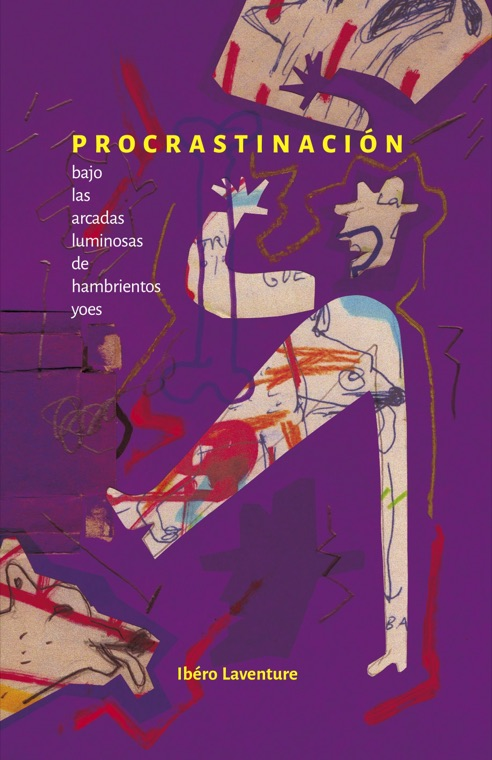
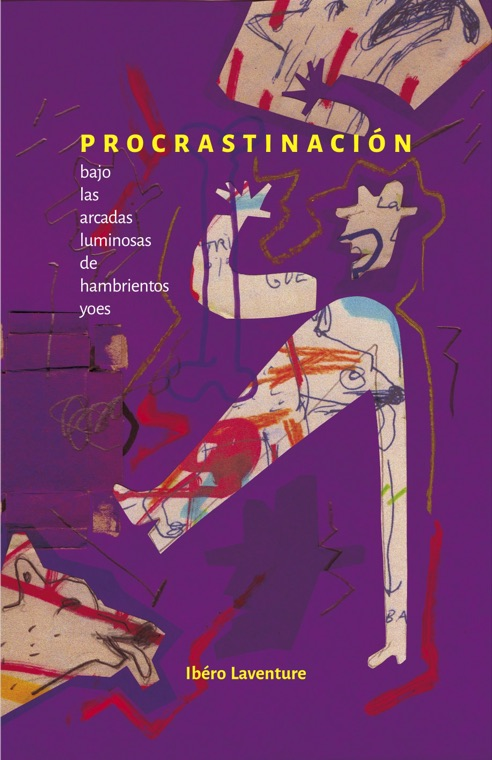
Add covers for materiales/2021-2023, 3 new books, fix duplicate poetas suecas entry
Matched 78 scanned covers to their books (73 existing + 3 new: Tiritantes de
la ciudad, Casi vacío, La caída), converting CMYK sources to sRGB and cropping
wraparound spreads down to the front-cover panel where needed. Removed
clu-de-yauguru--agosto-2021--encuentro-con-tres-poetas.md as a duplicate of
Un encuentro con tres poetas suecas. Catalog goes from 559 to 562 books.

diff --git a/PROJECT.md b/PROJECT.md
@@ -180,8 +180,8 @@ en `global.css`) simula el canto de páginas de un libro real.
 
 El editor va subiendo tapas escaneadas a `materiales/<algo con el año>/` (no
 trackeado en git, ver `.gitignore`) de a tandas — hasta ahora se procesaron los
-lotes con tapas de 2023-2026. Cuando aparezcan lotes nuevos (ej. `materiales/2021`,
-`materiales/2022`, `materiales/2023`), el flujo que ya se usó es:
+lotes con tapas de 2021-2026. Cuando aparezcan lotes nuevos, el flujo que ya se
+usó es:
 
 1. **Listar los archivos** de la carpeta nueva (`ls`) — los nombres son
    inconsistentes y crípticos (fragmentos de título, apellido del autor,
@@ -198,7 +198,30 @@ lotes con tapas de 2023-2026. Cuando aparezcan lotes nuevos (ej. `materiales/202
 3. **Optimizar cada imagen** con `sips` (viene instalado en macOS, no hace
    falta ninguna librería): `sips -Z 760 --setProperty formatOptions 78 "<origen>" --out "public/covers/<slug>.jpg"`
    — reduce de varios MB a ~80-150KB por tapa, suficiente para el tamaño real
-   en pantalla (grilla ~190px, modal ~380px).
+   en pantalla (grilla ~190px, modal ~380px). Detalles que salieron al procesar
+   los lotes 2021-2023 (fuentes en `.tif`/`.psd`/`.pdf`, no solo `.jpg`):
+   - Muchos originales (tanto `.tif`/`.psd` como varios `.jpg`) vienen en **CMYK**
+     de Photoshop/QuarkXPress. `sips` los deja tal cual si no se le pide
+     conversión — hay que agregar `-m "/System/Library/ColorSync/Profiles/sRGB Profile.icc"`
+     antes de `-s format jpeg` para forzar RGB real (si no, el jpg queda con
+     4 components y se ve mal/no renderiza en navegador).
+   - Para `.tif`/`.psd`/`.pdf`, `sips` **no** infiere el formato de salida del
+     `--out ....jpg` (a diferencia de un `.jpg` de entrada) — hace falta el
+     flag explícito `-s format jpeg`, si no guarda el archivo con la extensión
+     `.jpg` pero contenido tiff/psd intacto.
+   - Comando completo recomendado para cualquier fuente (sirve también para
+     `.jpg`/`.jpeg` ya en RGB, no hace daño):
+     `sips -m "/System/Library/ColorSync/Profiles/sRGB Profile.icc" -s format jpeg -Z 760 --setProperty formatOptions 78 "<origen>" --out "public/covers/<slug>.jpg"`
+   - Algunas tapas son en realidad la **tapa completa** (contratapa + lomo +
+     tapa, formato apaisado, ratio ancho/alto > 1.2) en vez de sólo la tapa
+     frontal — se detectan por el ratio y por tener marcas de corte de imprenta
+     en las esquinas. Hay que recortar sólo el panel de tapa (lado derecho)
+     antes de optimizar: convertir a jpg RGB de resolución completa, mirar la
+     imagen (el tool Read acepta jpg pero no tif/psd — convertir primero con
+     `sips` a un jpg temporal para poder verla), y recortar con Python/PIL
+     (`im.crop((left, 0, w, h))`, `left` como % del ancho hasta encontrar el
+     lomo) — `sips -c` sólo recorta centrado, no sirve para esto. Verificar
+     visualmente el recorte final antes de optimizar a 760px.
 4. **Agregar `coverImage: /covers/<slug>.jpg`** al frontmatter del `.md`
    correspondiente (después de `featured:`, ver cualquier libro ya migrado
    como ejemplo).
@@ -210,14 +233,25 @@ lotes con tapas de 2023-2026. Cuando aparezcan lotes nuevos (ej. `materiales/202
 
 ## Estado actual (revisar con `git status` / `git log`)
 
-Todos los commits en `main` están pusheados a GitHub. Trabajo hecho hasta
-ahora: grilla/lista unificadas con toggle, tapas reales para ~50 libros +
-7 libros nuevos encontrados entre las tapas, rediseño del modal de detalle
-(dos paneles full-bleed), punto rojo que sigue al mouse (con modos hover/
-cerrar/lápiz), zona de dibujo en la sección "about", footer fijo que aparece
-cuando la barra de filtros queda sticky. Quedan pendientes las tapas de los
-lotes `materiales/2021`, `materiales/2022` y `materiales/2023` (subidas por
-el editor, todavía sin procesar — ver "Cómo agregar tapas nuevas" arriba).
+Trabajo hecho hasta ahora: grilla/lista unificadas con toggle, rediseño del
+modal de detalle (dos paneles full-bleed), punto rojo que sigue al mouse (con
+modos hover/cerrar/lápiz), zona de dibujo en la sección "about", footer fijo
+que aparece cuando la barra de filtros queda sticky. Tapas reales para ~130
+libros (lotes 2021-2026 ya procesados, ver "Cómo agregar tapas nuevas"
+arriba) + 3 libros nuevos encontrados entre las tapas de `materiales/2021`,
+`materiales/2022` y `materiales/2023` (**562 libros** en total ahora, era 559).
+Sin cambios sin commitear — confirmar con `git status` antes de asumir esto.
+
+Libros nuevos agregados con metadata inferida por patrón del lote (colección/
+serie/año no confirmados en la tapa misma — sí el título/autor) que conviene
+que el editor revise:
+- `narrativas--19--tiritantes-de-la-ciudad.md` (Raquel Lubartowski Nogara)
+- `todos-los-gallos-estan-despiertos--41--casi-vacio.md` (Viktor Gómez)
+- `todos-los-gallos-estan-despiertos--43--la-caida.md` (Pablo Galante
+  Martorelli) — la tapa fuente tiene un ratio apaisado inusual (título
+  "LA CAÍDA" con letras dispersas por todo el ancho); se dejó sin recortar
+  porque el título no es legible si se recorta a sólo un panel — confirmar
+  con el editor si es al diseño o un jpg de tapa completa mal exportado.
 
 ## Cómo levantar el entorno
 
@@ -234,9 +268,9 @@ Nota: ~13 archivos de `src/content/books/*.md` fallan el schema
 
 ## Próximos pasos posibles (no pedidos aún, solo ideas si preguntan)
 
-- Procesar las tapas de `materiales/2021`, `materiales/2022` y
-  `materiales/2023` (ver "Cómo agregar tapas nuevas" arriba) — es lo
-  próximo que pidió el usuario.
+- Confirmar con el editor la colección/serie/año de los 3 libros nuevos
+  agregados en esta sesión (ver "Estado actual" arriba) y si la tapa de
+  "La caída" debe recortarse o no.
 - `catalogo.astro` (la vista tabla vieja) ya no existe — se eliminó al
   fusionar grilla y listado en un solo toggle dentro de `BookCatalog.astro`.
 - El "zoom out" preciso a la tarjeta (punto 5) quedaría resuelto si se

diff --git a/src/content/books/narrativas--19--tiritantes-de-la-ciudad.md b/src/content/books/narrativas--19--tiritantes-de-la-ciudad.md
@@ -1,0 +1,14 @@
+---
+title: Tiritantes de la ciudad
+collections:
+- narrativas
+series: Segunda Serie
+year: 2022
+authors:
+- Raquel Lubartowski Nogara
+genre: novela
+featured: false
+coverImage: /covers/narrativas--19--tiritantes-de-la-ciudad.jpg
+---
+
+19. / Tiritantes de la ciudad. Novela de Raquel Lubartowski Nogara. 2022.

diff --git a/src/content/books/todos-los-gallos-estan-despiertos--41--casi-vacio.md b/src/content/books/todos-los-gallos-estan-despiertos--41--casi-vacio.md
@@ -1,0 +1,14 @@
+---
+title: Casi vacío
+collections:
+- todos-los-gallos-estan-despiertos
+series: Quinta serie (poesía)
+year: 2022
+authors:
+- Viktor Gómez
+genre: otro
+featured: false
+coverImage: /covers/todos-los-gallos-estan-despiertos--41--casi-vacio.jpg
+---
+
+41. / Casi vacío. Viktor Gómez. 2022.

diff --git a/src/content/books/todos-los-gallos-estan-despiertos--43--la-caida.md b/src/content/books/todos-los-gallos-estan-despiertos--43--la-caida.md
@@ -1,0 +1,14 @@
+---
+title: La caída
+collections:
+- todos-los-gallos-estan-despiertos
+series: Sexta serie (poesía)
+year: 2023
+authors:
+- Pablo Galante Martorelli
+genre: otro
+featured: false
+coverImage: /covers/todos-los-gallos-estan-despiertos--43--la-caida.jpg
+---
+
+43. / La caída. Pablo Galante Martorelli. 2023.

diff --git a/src/content/books/archivivo--7--frontera-movil.md b/src/content/books/archivivo--7--frontera-movil.md
@@ -8,6 +8,7 @@ authors:
 - Alfredo Fressia
 genre: otro
 featured: false
+coverImage: /covers/archivivo--7--frontera-movil.jpg
 ---
 
 # 7. Frontera móvil de Alfredo Fressia. 2023.

diff --git a/src/content/books/bordes-desbordes--17--verbovisualidad-oriental-la-poesia-visua.md b/src/content/books/bordes-desbordes--17--verbovisualidad-oriental-la-poesia-visua.md
@@ -9,6 +9,7 @@ authors:
 - Juan Ángel Italiano
 genre: otro
 featured: false
+coverImage: /covers/bordes-desbordes--17--verbovisualidad-oriental-la-poesia-visua.jpg
 ---
 
 17. / Verbovisualidad oriental. La poesía visual y otras escrituras disidentes uruguayas. 1833-2020. Tomo 1. Juan Ángel Italiano. 2021.

diff --git a/src/content/books/bordes-desbordes--19--danzas-comunes-en-el-uruguay.md b/src/content/books/bordes-desbordes--19--danzas-comunes-en-el-uruguay.md
@@ -15,6 +15,7 @@ authors:
 - Colectivo Periférico
 genre: otro
 featured: false
+coverImage: /covers/bordes-desbordes--19--danzas-comunes-en-el-uruguay.jpg
 ---
 
 19. / Danzas comunes en el uruguay. Virginia Arzuaga, Federica Folco, Sofía Lans, Andrea Ghuisolfi, Catalina Chouhy, Angela Alves, Marianela Vicente, Belén Sánchez y Colectivo Periférico. 2022.

diff --git a/src/content/books/bordes-desbordes--20--barradas-barradas-coincidencias-estetica.md b/src/content/books/bordes-desbordes--20--barradas-barradas-coincidencias-estetica.md
@@ -8,6 +8,7 @@ authors:
 - Santiago Tavella
 genre: ensayo
 featured: false
+coverImage: /covers/bordes-desbordes--20--barradas-barradas-coincidencias-estetica.jpg
 ---
 
 20. BARRADAS / BARRADAS. Coincidencias estéticas en una producción de alta interactividad (ensayo). Adriana Santos Melgarejo y Santiago Tavella. 2022

diff --git a/src/content/books/bordes-desbordes--21--no-develaras-el-misterio.md b/src/content/books/bordes-desbordes--21--no-develaras-el-misterio.md
@@ -8,6 +8,7 @@ authors:
 - Entrevistas a Marosa di Giorgio
 genre: otro
 featured: false
+coverImage: /covers/bordes-desbordes--21--no-develaras-el-misterio.jpg
 ---
 
 21. / No develarás el misterio. Entrevistas a Marosa di Giorgio. 2023.

diff --git a/src/content/books/bordes-desbordes--22--contemporaneidad-de-las-brujas.md b/src/content/books/bordes-desbordes--22--contemporaneidad-de-las-brujas.md
@@ -7,6 +7,7 @@ authors:
 - Roberto Fernández Ibáñez
 genre: otro
 featured: false
+coverImage: /covers/bordes-desbordes--22--contemporaneidad-de-las-brujas.jpg
 ---
 
 22. / Contemporaneidad de las brujas. (Fotografía y textos). Roberto Fernández Ibáñez. 2023.

diff --git a/src/content/books/clu-de-yauguru--junio-2022--lineas-marginales-perzomas.md b/src/content/books/clu-de-yauguru--junio-2022--lineas-marginales-perzomas.md
@@ -7,6 +7,7 @@ authors:
 - Agamenón Castrillón
 genre: poesía
 featured: false
+coverImage: /covers/clu-de-yauguru--junio-2022--lineas-marginales-perzomas.jpg
 ---
 
 Junio|2022 / Líneas marginales / Perzomás. Poesía de Agamenón Castrillón (plaqueta).

diff --git a/src/content/books/narrativas--10--el-pijama-de-lynch.md b/src/content/books/narrativas--10--el-pijama-de-lynch.md
@@ -8,6 +8,7 @@ authors:
 - Felipe Palomeque
 genre: novela
 featured: false
+coverImage: /covers/narrativas--10--el-pijama-de-lynch.jpg
 ---
 
 10. / El pijama de Lynch. Novela de Felipe Palomeque. 2023.